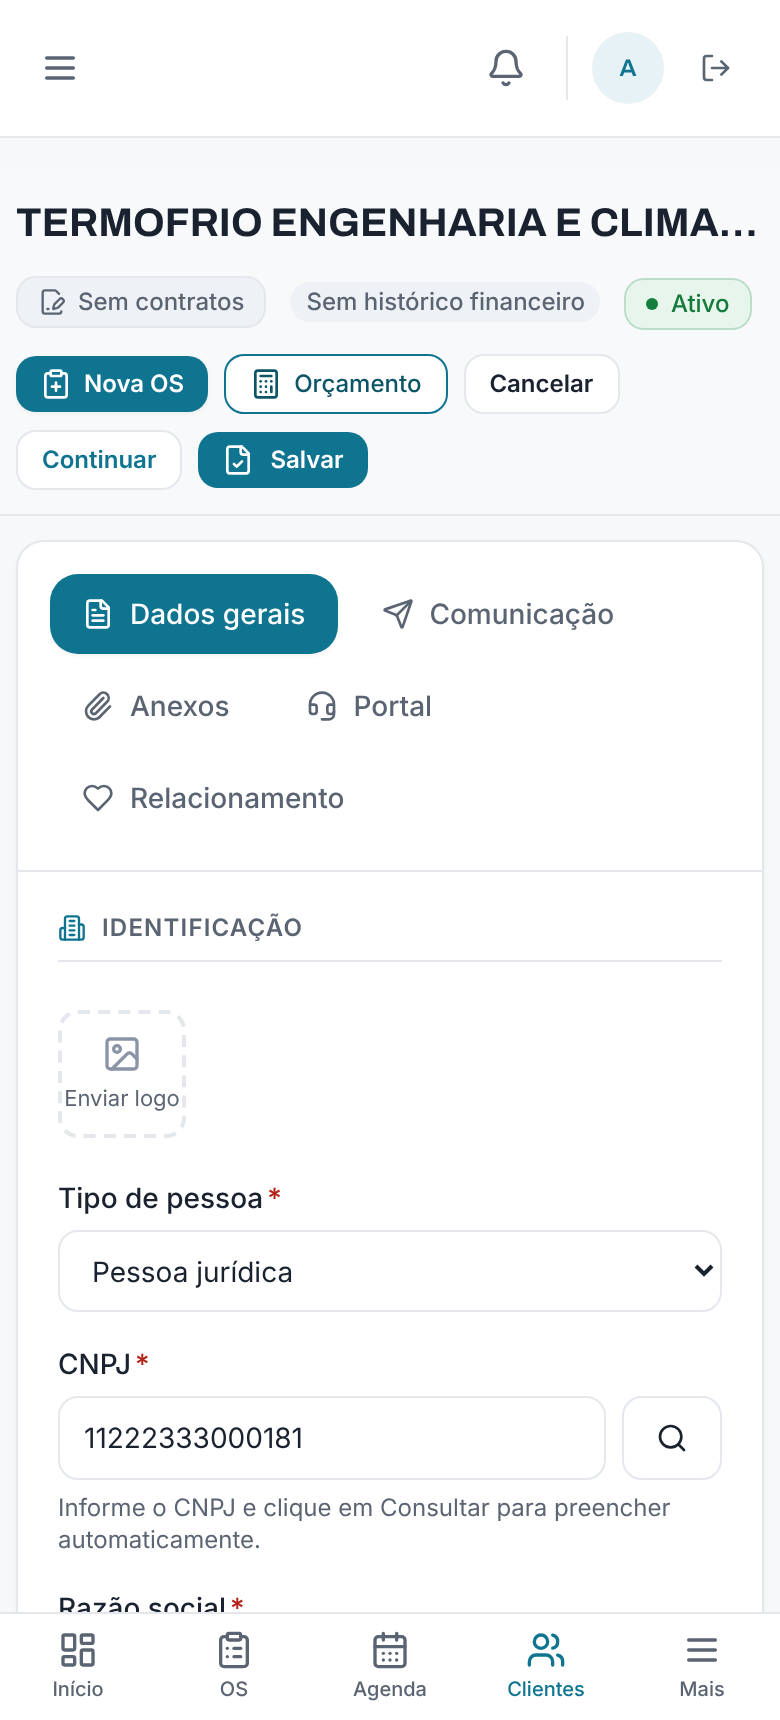
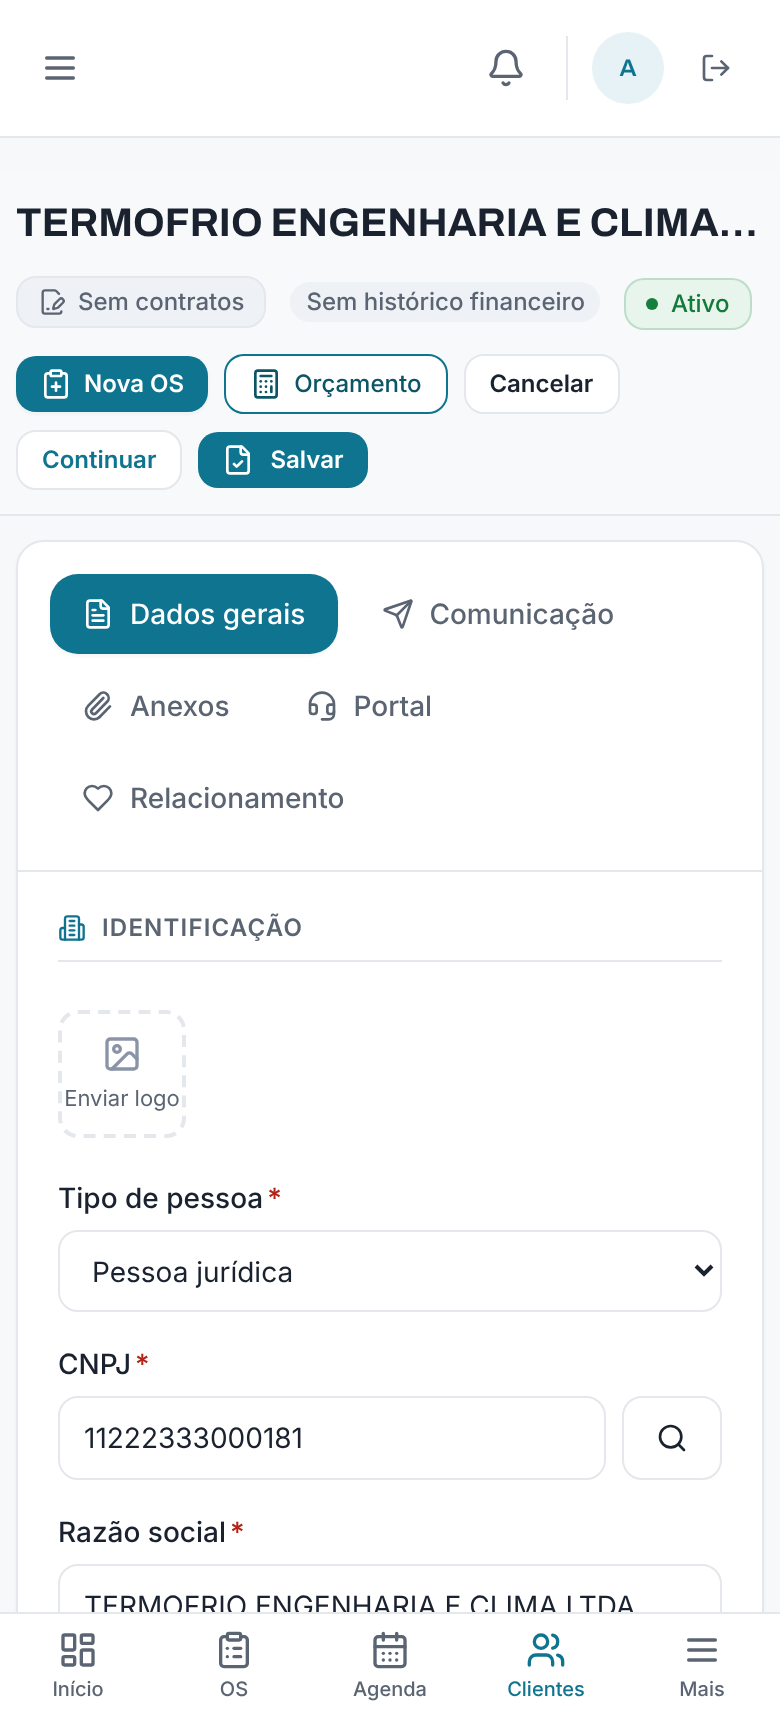
Cliente › CNPJ: consulta preenche em silêncio (sem toast, linha verde ou dica)
A consulta de CNPJ deixa de exibir aviso de sucesso: removidos o toast
"Consulta preencheu…", a linha verde "Receita Federal: …" acima do campo e a
dica "Informe o CNPJ e clique em Consultar…" abaixo dele. O endereço/contato
preenchidos já aparecem nas próprias seções; o campo só ganha o estado válido
(borda) ao encontrar o CNPJ. Erros da consulta continuam aparecendo no banner.

- Teste do autofill confere a consulta silenciosa (sem data-cnpj-encontrado,
  sem "Receita Federal:", sem a dica)
- Prints (desktop e celular) regerados sem o toast/linha/dica

Claude-Session: https://claude.ai/code/session_01NogQSnn1DhMU16avoGcmWJ

diff --git a/components/forms/cliente-form.tsx b/components/forms/cliente-form.tsx
@@ -219,8 +219,7 @@ export function ClienteForm({ initialData, statusFinanceiroCalc, perdas12m }: Cl
         if (re.preencheu) setUnidadesNovas(re.unidades);
         const rc = mesclarContato<ContatoLocal>(contatosNovos, contato, nomeCli, novoContatoLocal);
         if (rc.contatos !== contatosNovos) setContatosNovos(rc.contatos);
-        const partes = [re.preencheu && "endereço", rc.adicionou && "contato"].filter(Boolean);
-        if (partes.length) toast(`Consulta preencheu ${partes.join(" e ")} do cliente.`);
+        // Preenchimento silencioso: o endereço/contato aparecem na própria seção (sem aviso de sucesso).
       } else {
         // Edição: vira sugestão para os managers (o nonce abre o formulário já preenchido ao adicionar).
         setSugestaoEndereco(end);
@@ -494,15 +493,8 @@ export function ClienteForm({ initialData, statusFinanceiroCalc, perdas12m }: Cl
                 <option value="FISICA">Pessoa física</option>
               </Select>
             </FormField>
-            <FormField label={tipoPessoa === "FISICA" ? "CPF" : "CNPJ"} required error={errors.cpfCnpj?.message} hint={tipoPessoa === "JURIDICA" && !cnpjInfo ? "Informe o CNPJ e clique em Consultar para preencher automaticamente." : undefined}>
+            <FormField label={tipoPessoa === "FISICA" ? "CPF" : "CNPJ"} required error={errors.cpfCnpj?.message}>
               <div>
-                {/* Confirmação discreta da consulta, logo acima do campo (sem o painel antigo) */}
-                {cnpjInfo?.nome && (
-                  <p className="flex items-center gap-1 text-xs text-ok-texto mb-1 animate-in fade-in" data-cnpj-encontrado>
-                    <FileCheck className="w-3.5 h-3.5 shrink-0" />
-                    <span className="truncate">Receita Federal: {cnpjInfo.nome}{(cnpjInfo.cidade || cnpjInfo.estado) ? ` — ${[cnpjInfo.cidade, cnpjInfo.estado].filter(Boolean).join("/")}` : ""}</span>
-                  </p>
-                )}
                 <div className="flex gap-2">
                   <Input {...register("cpfCnpj")} placeholder={tipoPessoa === "FISICA" ? "000.000.000-00" : "00.000.000/0001-00"} error={!!errors.cpfCnpj} valido={!errors.cpfCnpj && !!cnpjInfo} className="flex-1" />
                   {tipoPessoa === "JURIDICA" && (

diff --git a/tests/unit/cliente-cnpj-autofill-ui.test.ts b/tests/unit/cliente-cnpj-autofill-ui.test.ts
@@ -82,9 +82,11 @@ describe("Autofill do CNPJ no cliente novo", () => {
     const botaoContato = $$("button").find((b) => b.textContent === "Termofrio Engenharia Ltda" || /Termofrio Engenharia Ltda/.test(b.textContent ?? ""));
     // o e-mail está no estado do contato; o card colapsado mostra o nome + selo Principal
     expect(botaoContato).toBeTruthy();
-    // aviso da Receita Federal agora é discreto (junto ao CNPJ), sem o painel antigo
-    expect(caixa.querySelector("[data-cnpj-encontrado]")).toBeTruthy();
+    // consulta silenciosa: sem aviso de sucesso, sem linha verde da Receita Federal, sem dica sob o CNPJ
+    expect(caixa.querySelector("[data-cnpj-encontrado]")).toBeFalsy();
     expect(corpo).not.toContain("Dados encontrados na Receita Federal");
+    expect(corpo).not.toContain("Receita Federal:");
+    expect(corpo).not.toContain("clique em Consultar para preencher");
     // status financeiro só no cabeçalho — não repete numa seção de Dados gerais
     expect(corpo).not.toContain("Calculado automaticamente pelas contas a receber");
   });

diff --git a/docs/cliente-dados-gerais.md b/docs/cliente-dados-gerais.md
@@ -42,8 +42,10 @@ básicos sem poluir.
 Afinação da seção Identificação:
 - O **status financeiro** fica **só no cabeçalho** (selo ao lado do nome) — não se repete numa
   linha no corpo da seção.
-- O aviso **"Dados encontrados na Receita Federal"** deixou de ser um painel: virou uma linha
-  **discreta em verde** logo **acima** do campo de CNPJ (`data-cnpj-encontrado`), sem ocupar espaço.
+- A consulta de CNPJ preenche **em silêncio**: sem aviso de sucesso (toast), sem linha verde de
+  confirmação e sem dica sob o campo. Só **erros** da consulta aparecem (CNPJ inválido / não
+  encontrado / serviço indisponível / timeout). O campo apenas ganha o estado **válido** (borda) ao
+  encontrar o CNPJ.
 - **Endereços em caixas (acordeão), não cartões:** cada endereço é uma **caixa arredondada com fundo
   suave** (`bg-frivo-50`) — só o nome em negrito e o selo **Principal** no cabeçalho, com uma seta que
   gira ao abrir. Clicar **expande pra baixo** (painel branco) para ver todos os dados do endereço —
